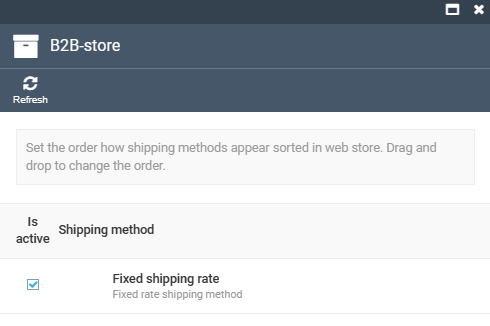
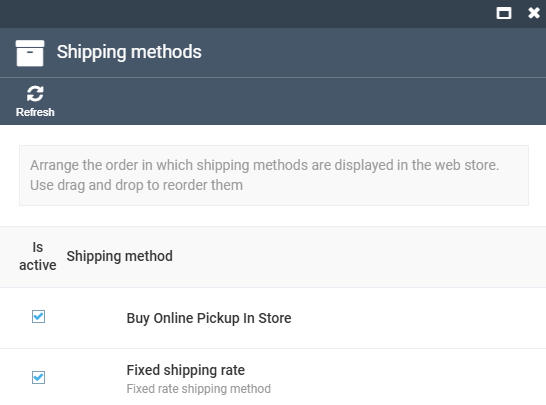
Added: Bopis description and QA environments creation on cloud

diff --git a/platform/deployment-on-cloud/docs/qa-new-environment.md b/platform/deployment-on-cloud/docs/qa-new-environment.md
@@ -1,0 +1,90 @@
+# Set Up New Testing Environment in Virto Cloud Portal
+
+In this guide, we'll explore how to create new environments on the Virto Cloud Portal for different purposes — for example, QA or development. These environments are typically created to test new features in isolation, preventing any impact on other ongoing work. Once testing is complete, the environments and their corresponding branches should be deleted.
+
+## Create new account
+
+1. [Enter the Virto Cloud portal](https://portal.virtocommerce.cloud/#!/login) with Azure AD.
+1. Click **Environments** in the main menu.
+1. In the next blade, click **Add** in the toolbar. 
+1. The following blade opens:
+
+    ![Add new environment](media/qa-new-environment.png)
+
+    Set the following parameters:
+
+    * App project (**vcptcore** project).
+    * Environment name (**testenv** in our example).
+    * Service plan.
+    * Database technology.
+
+1. Click **Create**. 
+
+The system will check for available resources and, if necessary, allocate additional virtual machines to run your application. This process may take up to 5 minutes. Once you see the **Healthy** and **Synced** statuses, you have a fully functional environment.
+
+
+## Sign in to backend
+
+Once setup is complete, your environment appears in the list. Click on it to get a link to your application:
+
+![Link to backend](media/qa-environment-url.png)
+
+To sign in for the first time:
+
+1. Click on the link highlighted above. The login page opens.
+
+1. Log in using the default credentials: **admin** as the username and **store** as the password.
+
+    ![Default credentials](media/default-credentials.png)
+
+You will be offered to use sample data (B2B Sample Store), or create your store from scratch (Empty). For the purpose of this guide, we are going to use sample data:
+
+![Sample Store](media/sample-data-type.png)
+
+
+## Set own credentials
+
+Next you will be forced to set your own credentials:
+
+![New credentials](media/change-credentials.png)
+
+!!! warning
+    Make sure to save your credentials. Without them, you won’t be able to sign in again.
+
+!!! note
+    You can configure additional authentication methods, such as signing in via [Google](../../../../../storefront/developer-guide/authentication/adding-google-as-sso-provider#manage-platform-settings) or [Entra ID (formerly Azure AD)](../../../../storefront/developer-guide/authentication/adding-sso-provider).
+
+## Copy API key
+
+1. Login to your new environment using new credentials.
+1. In the main menu, click **Security**.
+1. Go to **Users** --> **admin** --> **API key**.
+1. In the next blade, click **Generate** in the toolbar, then copy the generated API key to clipboard. 
+
+You will need this API key later.
+
+
+## Enable GitOps
+
+1. Open the Virto Cloud Portal and select **Environments** in the main menu.
+1. Select your environment.
+1. In the next blade, switch the **GitOps** option to on.
+1. Click **Save** in the toolbar.
+1. Click **Download manifest** in the toolbar. 
+
+
+## Connect new environment to GitHub
+
+1. Go to [vc-deploy-dev](https://github.com/VirtoCommerce/vc-deploy-dev).
+1. Use the existing **vcptcore-qa** branch as a source to create your new branch. Its name should contain the name of your new environment (**vcptcore-testenv** in our example).
+1. Click **Create new branch**. Your new branch appears in the list of branches.
+
+    ![Create new branch](media/new-qa-env.gif)
+
+1. Open this branch, select the **Infra** folder, then open the **environments.yml** file.
+1. Now, you need to replace the settings in the environments.yml file with the settings from the downloaded manifest file and the copied API key:
+
+    ![Settings replacement](media/settings-replacememt.png)
+
+1. Click **Commit changes**.
+

diff --git a/storefront/user-guide/docs/shopping/checkout-process.md b/storefront/user-guide/docs/shopping/checkout-process.md
@@ -32,26 +32,49 @@ To complete your order:
     !!! note
         The checkout process for carts containing only digital products does not include the **Shipping** step since digital products do not require shipping.
 
-1. Specify shipping details:
-    * Select a shipping address from the list or add a new one.
+1. Select a delivery option:
 
-        !!! note
-            If **Shipping address policy** is enabled, you will see a prefilled shipping address on the Shipping page.
+    === "Pickup"
 
-    * Select a delivery method from the dropdown list: Ground or Air. The shipping cost appears in the order summary.
-    * Enter your comments, if any.
+        Select a pickup point from the list if you do not require delivery and provide your comments, if any.
 
-    ![Shipping step](../media/shipping-step.png)
+        ![Readmore](../media/readmore.png){: width="25"} [Managing pickup locations](../../../../platform/user-guide/shipping/managing-shipping-methods#add-or-edit-pickup-location)
+
+        ![Pickup step](../media/pickup-step.png)
+
+    === "Shipping"
+
+        * Select a shipping address if you need you order to be delivered to your address.
+
+            !!! note
+                If [Shipping address policy](../../../../platform/user-guide/store/settings#general-settings) is enabled in the Platform, you will see a prefilled shipping address on the Shipping page.
+
+        * Select a delivery method from the dropdown list: **Ground** or **Air**. The shipping cost appears in the order summary.
+        * Enter your comments, if any.
+
+        ![Shipping step](../media/shipping-step.png)
 
 1. Click **Proceed to billing** to proceed to the next step.
 
 1. Specify payment details:
     * Select a shipping address from the list, add new one, or check **Same as shipping address**. 
     * Select a payment method from the dropdown list:
-        * **Bank card (Authorize.Net)** adds the **Payment** step to the checkout process. It does not appear if you choose to pay manually.
-        * **Bank card (Skyflow)** adds the **Payment** step to the checkout process. It does not appear if you choose to pay manually. Allows you to save credit cards for further payments and select previously saved cards from the dropdown list.
-        * **Bank card (CyberSource)** adds the **Payment** step to the checkout process. It does not appear if you choose to pay manually. Allows you to save credit cards for further payments and select previously saved cards from the dropdown list.
-        * **Manual** payment allows you to pay for the order later.
+
+        === "Bank card (Authorize.Net)"
+        
+            **Authorize.net** adds the **Payment** step to the checkout process. It does not appear if you choose to pay manually.
+
+        === "Bank card (Skyflow)" 
+        
+            **SkyFlow** adds the **Payment** step to the checkout process. It does not appear if you choose to pay manually. It allows you to save credit cards for further payments and select previously saved cards from the dropdown list.
+
+        === "Bank card (CyberSource)"
+
+            **CyberSource**  adds the **Payment** step to the checkout process. It does not appear if you choose to pay manually. It allows you to save credit cards for further payments and select previously saved cards from the dropdown list.
+
+        === "Manual"
+        
+            **Manual payment** allows you to pay for the order later.
 
     ![Billing step](../media/billing-step.png)
 

diff --git a/platform/user-guide/docs/shipping/managing-shipping-methods.md b/platform/user-guide/docs/shipping/managing-shipping-methods.md
@@ -2,26 +2,32 @@
 
 Managing shipping methods includes:
 
-* [Selecting available shipping methods from the list.](managing-shipping-methods.md#select-shipping-method)
-* [Editing shipping method.](managing-shipping-methods.md#editing-shipping-method)
-* [Selecting tax providers.](managing-shipping-methods.md#configure-tax-provider)
+* [Viewing available shipping methods from the list.](#view-shipping-methods)
+* [Editing fixed rate shipping method.](#edit-fixed-rate-shipping-method)
+* [Editing BOPIS shipping method.](#edit-bopis-shipping-method)
+* [Configuring tax providers.](#configure-tax-provider)
 
-## Select shipping method
+## View shipping methods
 
 To select a shipping method:
 
 1. In the main menu, click **Stores**.
 1. In the next blade, select the required store.
 1. In the next blade, click on the **Shipping methods** widget.
-1. The next blade displays the available shipping methods. Currently, we offer a fixed rate shipping method. 
+1. The next blade displays the available shipping methods. We currently offer a fixed rate shipping method and a BOPIS service:
 
 ![Shipping methods list](media/fixed-rate-shipping-method.png)
 
-## Edit shipping method
+On the Frontend, the available shipping methods are displayed as follows:
 
-To edit a shipping method:
+![Frontend shipping methods](media/frontend-shipping-methods.png)
 
-1. Complete steps 1-4 from the instruction above and click on the required shipping method from the list.
+
+## Edit fixed rate shipping method
+
+To edit a fixed rate shipping method:
+
+1. Complete steps 1-4 from the instruction above and click on the fixed rate shipping method in the list.
 1. In the next blade:
     * Enable/disable the shipping method.
     * Select tax type from the dropdown list.
@@ -32,7 +38,44 @@ To edit a shipping method:
 
 1. Click **Save** in the toolbar to save the changes.
 
-Your changes have been applied to the shipment method.
+Your changes have been applied to the shipping method.
+
+
+## Edit BOPIS shipping method
+
+To edit a BOPIS shipping method:
+
+1. Complete steps 1-4 from the instruction above and click on the BOPIS shipping method from the list.
+1. In the next blade:
+    * Enable/disable the shipping method.
+    * Select tax type from the dropdown list.
+    * Specify logo URL.
+    * Enter shipping method description.
+    * Click on the **Pickup locations** widget to [add or edit pickup points](#add-or-edit-pickup-points).
+
+    ![Edit shipping method](media/edit-bopis-shipping-method.png)
+
+1. Click **Save** in the toolbar to save the changes.
+
+Your changes have been applied to the shipping method.
+
+### Add or edit pickup location
+
+To add or edit a pickup location:
+
+1. In the **Buy Online Pickup in Store** blade, click on the **Pickup locations** widget.
+1. Select a pickup location from the list or click **Add** in the toolbar.
+1. In the next blade, fill in the following fields:
+
+    ![New location](media/bopis-new-location.png)
+
+1. Click **Save** in the toolbar.
+
+New pickup location has been added to the list.
+
+On the Frontend, the active addresses are displayed as follows:
+
+![Select address](media/frontend-pickup-addresses.png)
 
 ## Configure tax provider
 
